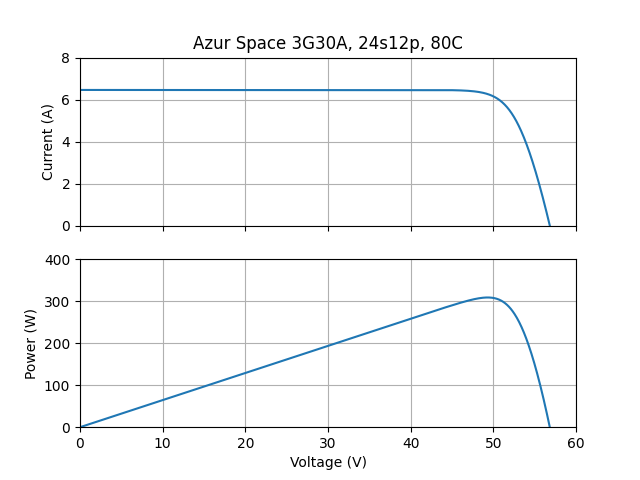
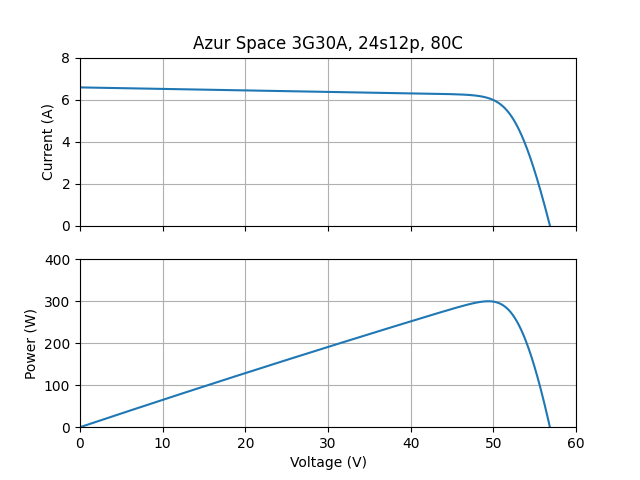
mystic wip

diff --git a/solarcell/solarcell.py b/solarcell/solarcell.py
@@ -1,22 +1,17 @@
 from collections import namedtuple
 from functools import lru_cache, partial, wraps
 from inspect import Signature
+from itertools import starmap
 from warnings import warn
 
 import numpy as np
+from mystic.monitors import VerboseMonitor
+from mystic.solvers import diffev2
 from scipy import constants
 from scipy.optimize import least_squares, root_scalar
 from scipy.special import lambertw
 
-
-def _warn_solution(name, target, result, threshold=0.02):
-    err = np.abs((result - target) / target)
-    if err > threshold:
-        wmsg1 = "{:s} fit error of {:0.1f}% exceeds {:0.1f}% threshold."
-        wmsg1 = wmsg1.format(name, err * 100, threshold * 100)
-        wmsg2 = "Target={:0.3f}, Result={:0.3f}, Delta={:0.3f}"
-        wmsg2 = wmsg2.format(target, result, result - target)
-        warn(" ".join([wmsg1, wmsg2]))
+from mystic.strategy import RandToBest1Bin
 
 
 def _metrics(isc, voc, imp, vmp, iv, vi):
@@ -25,25 +20,29 @@ def _metrics(isc, voc, imp, vmp, iv, vi):
     pv = lambda v: v * iv(v)
     pi = lambda i: i + vi(i)
     return m(isc, voc, imp, vmp, iv, vi, pmp, pv, pi)
-    
-    vi = partial(np.interp, xp=i, fp=v, left=np.nan, right=0)
-    iv = partial(np.interp, xp=v[::-1], fp=i[::-1], left=np.inf, right=0)
-    return m(
-        isc=i[-1],  # Short-circuit current.
-        voc=v[0],  # Open-circuit voltage.
-        imp=i[np.argmax(i * v)],  # Max-power current.
-        vmp=v[np.argmax(i * v)],  # Max-power voltage.
-        pmp=np.max(i * v),  # Max-power power.
-        vi=vi,  # Function, current to voltage.
-        iv=iv,  # Function, voltage to current.
-        pi=lambda i: i * vi(i),  # Function, current to power.
-        pv=lambda v: v * iv(v),  # Function, voltage to power.
-    )
+
+
+def _round_cell_inputs(ttol, gtol):
+    # The numerical fitting takes time. A cache is implemented to prevent
+    # duplicate work. Rounding of temperature and intensity is performed
+    # prior to accessing the cache to increase hit likelihood.
+    def decorator(fun):
+        @wraps(fun)
+        def wrapper(*args, **kwargs):
+            binding = Signature.from_callable(fun).bind(*args, **kwargs)
+            t = binding.arguments["t"]
+            g = binding.arguments["g"]
+            return fun(args[0], round(t / ttol) * ttol, round(g / gtol) * gtol)
+
+        return wrapper
+
+    return decorator
+
 
 def _model(iph, i0, rs, rsh, n, t):
     # See the technical reference: "Exact analytical solutions of the parameters
     # of real solar cells using Lambert W-function," Amit Jain, Avinashi Kapoor (2003).
-    
+
     nvth = n * constants.k * (t + 273.15) / constants.e
     rtot = rs + rsh
     itot = iph + i0
@@ -53,14 +52,18 @@ def _model(iph, i0, rs, rsh, n, t):
         ex = rsh * (rs * itot + v) / nvth / rtot
         wf = rs * rsh * i0 * np.exp(ex) / nvth / rtot
         lm = np.real_if_close(lambertw(wf))
-        return (rsh * itot - v) / rtot - lm * nvth / rs
+        ret = (rsh * itot - v) / rtot - lm * nvth / rs
+        ret = np.clip(ret, a_min=0, a_max=None)  # blocking diode
+        return np.where(v < 0, np.inf, ret)  # bypass diode
 
     def vi(i):
         # equation #3 from the technical reference
         ex = rsh * (itot - i) / nvth
         wf = rsh * i0 * np.exp(ex) / nvth
         lm = np.real_if_close(lambertw(wf))
-        return rsh * itot - rtot * i - lm * nvth
+        ret = rsh * itot - rtot * i - lm * nvth
+        ret = np.clip(ret, a_min=0, a_max=None)  # bypass diode
+        return np.where(i < 0, np.nan, ret)  # blocking diode
 
     def dpdi(i):
         # equation #10 from the technical reference
@@ -83,17 +86,20 @@ def _model(iph, i0, rs, rsh, n, t):
     def root(f, bnd):
         try:
             result = root_scalar(f, bracket=(0, bnd))
-        except ValueError:
+            assert result.converged
+            return result.root
+        except (ValueError, AssertionError):
             return np.nan
-        else:
-            return result.root if result.converged else np.nan
 
-    imp = root(dpdi, isc:=iv(0))
-    vmp = root(dpdv, voc:=vi(0))
-    
+    imp = root(dpdi, isc := iv(0))
+    vmp = root(dpdv, voc := vi(0))
+
     return isc, voc, imp, vmp, iv, vi
 
+
 class solarcell:
+    rss = 0.05  # the RSS error threshold at which the fit fails
+    
     def __init__(self, isc, voc, imp, vmp, t):
         assert isc[0] > imp[0] and isc[1] > imp[1], "Isc must exceed Imp."
         assert voc[0] > vmp[0] and voc[1] > vmp[1], "Voc must exceed Vmp."
@@ -104,6 +110,8 @@ class solarcell:
         self.vmp = vmp
         self.t = t
 
+    @_round_cell_inputs(ttol=0.1, gtol=0.01)
+    @lru_cache(maxsize=128)
     def cell(self, t, g):
         assert t > -273.15, "Temperature must exceed absolute zero."
         assert g >= 0, "Intensity must be non-negative."
@@ -111,67 +119,71 @@ class solarcell:
         # Skip the curve fit altogether if the cell is dark.
         if g == 0:
             null = lambda _: 0
-            return _metrics(0,0,0,0,null,null)
+            return _metrics(0, 0, 0, 0, null, null)
 
         # Otherwise proceed with the curve fit to the following parameters.
-        # Compute the adjusted cell parameters.
         dt = t - self.t
         isc = (self.isc[0] + dt * self.isc[1]) * g
         voc = self.voc[0] + dt * self.voc[1]
         imp = (self.imp[0] + dt * self.imp[1]) * g
         vmp = self.vmp[0] + dt * self.vmp[1]
 
-        print("goal:", isc, voc, imp, vmp)
+        def model(x):
+            irelph, irel0, rs, rsh, n = x
+            with np.errstate(invalid="ignore", over="ignore"):
+                return _model(irelph * isc, irel0 * 1e-20, rs, rsh, n, t)
 
-        def params(x):
-            iph, irel0, rs, rsh, n = x
-            with np.errstate(invalid="ignore"):
-                return _model(iph, irel0 * 1e-20, rs, rsh, n, t)
-            
-        def params_relerror(x):
-            xisc, xvoc, ximp, xvmp, _, _ = params(x)
-            isc_relerror = (isc - xisc) / isc
-            voc_relerror = (voc - xvoc) / voc
-            imp_relerror = (imp - ximp) / imp
-            vmp_relerror = (vmp - xvmp) / vmp
-            return isc - xisc, voc - xvoc, imp - ximp, vmp - xvmp
-            return isc_relerror, voc_relerror, imp_relerror, vmp_relerror
+        def cost(x):
+            target = (isc, voc, imp, vmp)
+            relerror = lambda a, e: (a - e) / e if not np.isnan(a) else np.inf
+            errors = list(starmap(relerror, zip(model(x), target)))
+            errors = np.nan_to_num(errors, nan=np.nan, posinf=1e16, neginf=-1e16)
+            return errors
+            # rss = np.sqrt(np.sum(np.array(errors) ** 2))
+            # return rss
 
-        rs0 = (voc - vmp) / imp
-        rsh0 = vmp / (isc - imp)
-        x0 = (isc, 1, rs0, rsh0, 2.5) # iph, irel0, rs, rsh, n
-        lb = (isc * 0.95, 1e-3, 0, 10, 0.1)
-        ub = (isc * 1.05, 1e3, 1, np.inf, 10)
+        x0 = (1.0, 1e0, 0, 1e0, 2.5)
+        lb = (0.9, 1e-3, 0, 1e0, 0.1)
+        ub = (1.1, 1e3, 1, 1e4, 9.9)
 
-        result = least_squares(params_relerror, x0, bounds=(lb, ub))
-        print(result)
-        assert result.success
+        result = least_squares(cost, x0, bounds=(lb, ub))
+        rss = np.sqrt(result.cost)
+        emsg = "Failed model fit. RSS error of {:0.1f}% exceeds {:0.1f}%."
+        assert rss < self.rss, emsg.format(rss * 100, self.rss * 100)
+        
+        
+        # result = diffev2(
+        #     cost=cost,
+        #     x0=x0,
+        #     npop=40,
+        #     bounds=tuple(zip(lb, ub)),
+        #     ftol=self.rss,
+        #     strategy=RandToBest1Bin,
+        #     disp=False,
+        # ) # optimize by non-deterministic differential evolution procedure
 
-        # Warn if the solution is a poor fit.
-        xisc, xvoc, ximp, xvmp, _, _ = params(result.x)
-        print("result:", xisc, xvoc, ximp, xvmp)
-        _warn_solution("Isc", isc, xisc)
-        _warn_solution("Voc", voc, xvoc)
-        _warn_solution("Imp", imp, ximp)
-        _warn_solution("Vmp", vmp, xvmp)
+        # rss = cost(result)
+        # emsg = "Failed model fit. RSS error of {:0.1f}% exceeds {:0.1f}%."
+        # assert rss < self.rss, emsg.format(rss * 100, self.rss * 100)
 
-        return _metrics(*params(result.x))
+        return _metrics(*model(result.x))
 
     def string(self, t, g):
         # All series cells in a string have equal current.
         # The short-circuit current of the string is of the greatest cell.
         # Compute the string voltage by interpolating over string current.
         isc = max([self.cell(*tg).isc for tg in zip(t, g)])
+
         i = np.linspace(0, isc, 1000)
         v = np.sum([self.cell(*tg).vi(i) for tg in zip(t, g)], 0)
-        
+
         voc = v[0]
         imp = i[np.argmax(i * v)]
         vmp = v[np.argmax(i * v)]
-        
+
         iv = partial(np.interp, xp=v[::-1], fp=i[::-1], left=np.inf, right=0)
         vi = partial(np.interp, xp=i, fp=v, left=np.nan, right=0)
-        
+
         return _metrics(isc, voc, imp, vmp, iv, vi)
 
     def array(self, t, g):
@@ -185,8 +197,8 @@ class solarcell:
         isc = i[0]
         imp = i[np.argmax(i * v)]
         vmp = v[np.argmax(i * v)]
-        
-        iv = partial(np.interp, xp=v[::-1], fp=i[::-1], left=np.inf, right=0)
-        vi = partial(np.interp, xp=i, fp=v, left=np.nan, right=0)
-        
+
+        iv = partial(np.interp, xp=v, fp=i, left=np.inf, right=0)
+        vi = partial(np.interp, xp=i[::-1], fp=v[::-1], left=np.nan, right=0)
+
         return _metrics(isc, voc, imp, vmp, iv, vi)

diff --git a/tests/test_solarcell.py b/tests/test_solarcell.py
@@ -6,6 +6,7 @@ from solarcell import solarcell
 
 @pytest.fixture
 def azur3g30a():
+    solarcell.rss = 0.08
     return solarcell(
         isc=(0.5196, 0.00036),
         voc=(2.690, -0.0062),
@@ -14,6 +15,8 @@ def azur3g30a():
         t=28,
     )
 
+def gtapprox(gt, lt, rel):
+    return pytest.approx(gt, rel) == lt or gt > lt
 
 def test_dark_cell(azur3g30a):
     cell = azur3g30a.cell(t=28, g=0)
@@ -27,11 +30,13 @@ def test_dark_cell(azur3g30a):
 
 
 def test_cell(azur3g30a):
-    cell = azur3g30a.cell(t=azur3g30a.t + 10, g=1)
-    assert cell.isc > azur3g30a.isc[0] and cell.imp > azur3g30a.imp[0]
-    assert cell.voc < azur3g30a.voc[0] and cell.vmp < azur3g30a.vmp[0]
-    assert pytest.approx(cell.pmp, rel=1e-4) == cell.pv(cell.vmp)
-    assert pytest.approx(cell.pmp, rel=1e-4) == cell.vi(cell.imp) * cell.imp
+    cell = azur3g30a.cell(t=azur3g30a.t + 20, g=1)
+    assert gtapprox(cell.isc, azur3g30a.isc[0], rel=4e-2)
+    assert gtapprox(cell.imp, azur3g30a.imp[0], rel=4e-2)
+    assert gtapprox(azur3g30a.voc[0], cell.voc, rel=1e-3)
+    assert gtapprox(azur3g30a.vmp[0], cell.vmp, rel=1e-3)
+    assert pytest.approx(cell.pmp, rel=1e-3) == cell.pv(cell.vmp)
+    assert pytest.approx(cell.pmp, rel=1e-3) == cell.vi(cell.imp) * cell.imp
     assert cell.iv(cell.voc + 1) == 0  # no current when blocking
     assert np.isposinf(cell.iv(-1))  # bypass current when reversed
     assert cell.pv(cell.voc + 1) == 0  # no current when blocking
@@ -42,20 +47,20 @@ def test_cell(azur3g30a):
 
 @pytest.mark.filterwarnings("ignore::UserWarning")
 def test_solution(azur3g30a):
-    azur3g30a.cell(t=220, g=1)
-    azur3g30a.cell(t=-180, g=1)
-    azur3g30a.cell(t=220, g=0.1)
-    azur3g30a.cell(t=-180, g=0.1)
+    azur3g30a.cell(t=150, g=1)
+    azur3g30a.cell(t=-150, g=1)
+    azur3g30a.cell(t=150, g=0.1)
+    azur3g30a.cell(t=-150, g=0.1)
 
 
 def test_string(azur3g30a):
     cell = azur3g30a.cell(t=28, g=1)
     string = azur3g30a.string(t=[28, 28], g=[1, 1])
-    assert cell.isc == string.isc
-    assert cell.voc * 2 == string.voc
-    assert cell.imp == string.imp
-    assert cell.vmp * 2 == string.vmp
-    assert cell.pmp * 2 == string.pmp
+    assert pytest.approx(string.isc, rel=1e-3) == cell.isc
+    assert pytest.approx(string.voc, rel=1e-3) == cell.voc * 2
+    assert pytest.approx(string.imp, rel=1e-3) == cell.imp
+    assert pytest.approx(string.vmp, rel=1e-3) == cell.vmp * 2
+    assert pytest.approx(string.pmp, rel=1e-3) == cell.pmp * 2
 
 
 def test_array(azur3g30a):
